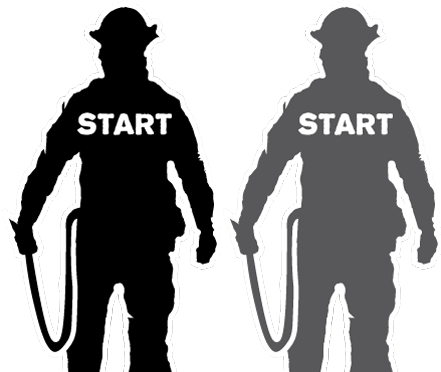
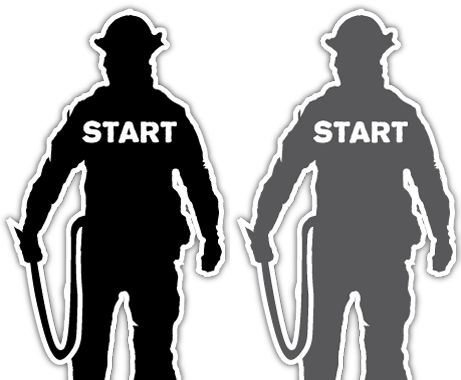
added the title text back, plus added shadow to Start button

Changed region(s): [[0.0, 0.0, 1.0, 1.0], [0.2063, 0.7392, 0.2948, 1.0], [0.7075, 0.7392, 0.7959, 1.0]]

diff --git a/js/states/stTitle.js b/js/states/stTitle.js
@@ -11,18 +11,21 @@ stTitle.prototype = {
     },//end_preload
     create: function(){
         l("title_create");
-        // add in start button 
-
-       var TitleAnimation = this.game.add.sprite(0,0,'TitleAnimation');
-       TitleAnimation.animations.add('TitleAnimation');
-       TitleAnimation.animations.play('TitleAnimation', 24, true);
-
-        var button = this.game.add.button(this.game.width/2, this.game.height - 186, 'StartButtons', this.startGame, this.game, 'riotfighter-title-button2', 'riotfighter-title-button');
-        button.anchor.set(0.5);
+       
+       // add in animated title background
+       this.TitleAnimation = this.game.add.sprite(0,0,'TitleAnimation');
+       this.TitleAnimation.animations.add('TitleAnimation');
+       this.TitleAnimation.animations.play('TitleAnimation', 24, true);
         
-        button.onInputOver.add(this.over, this);
-        button.onInputOut.add(this.out, this);  
-        button.onInputUp.add(this.stopMusic, this);
+       // add in title text
+       this.add.image(0, -20, 'titleText');
+
+        this.button = this.game.add.button(this.game.width/2, this.game.height - 186, 'StartButtons', this.startGame, this.game, 'riotfighter title button2 w shadow', 'riotfighter title button w shadow');
+        this.button.anchor.set(0.5);
+        
+        this.button.onInputOver.add(this.over, this);
+        this.button.onInputOut.add(this.out, this);  
+        this.button.onInputUp.add(this.stopMusic, this);
         
         // add and play music
         this.title_music = this.game.add.audio('title_screen');

diff --git a/js/states/stPreload.js b/js/states/stPreload.js
@@ -16,6 +16,7 @@ stPreload.prototype = {
         this.load.image('News2', "News2.png"); // newspaper 2
         this.load.image('News3', "News3.png"); // newspaper 3
         this.load.image('GameOverPage',"GameOverScreen.png"); // game over screen
+        this.load.image('titleText', "riotfighter title text.png");
 
         // --  load asset sheets
         this.load.path = "assets/img/sheets/"; 
